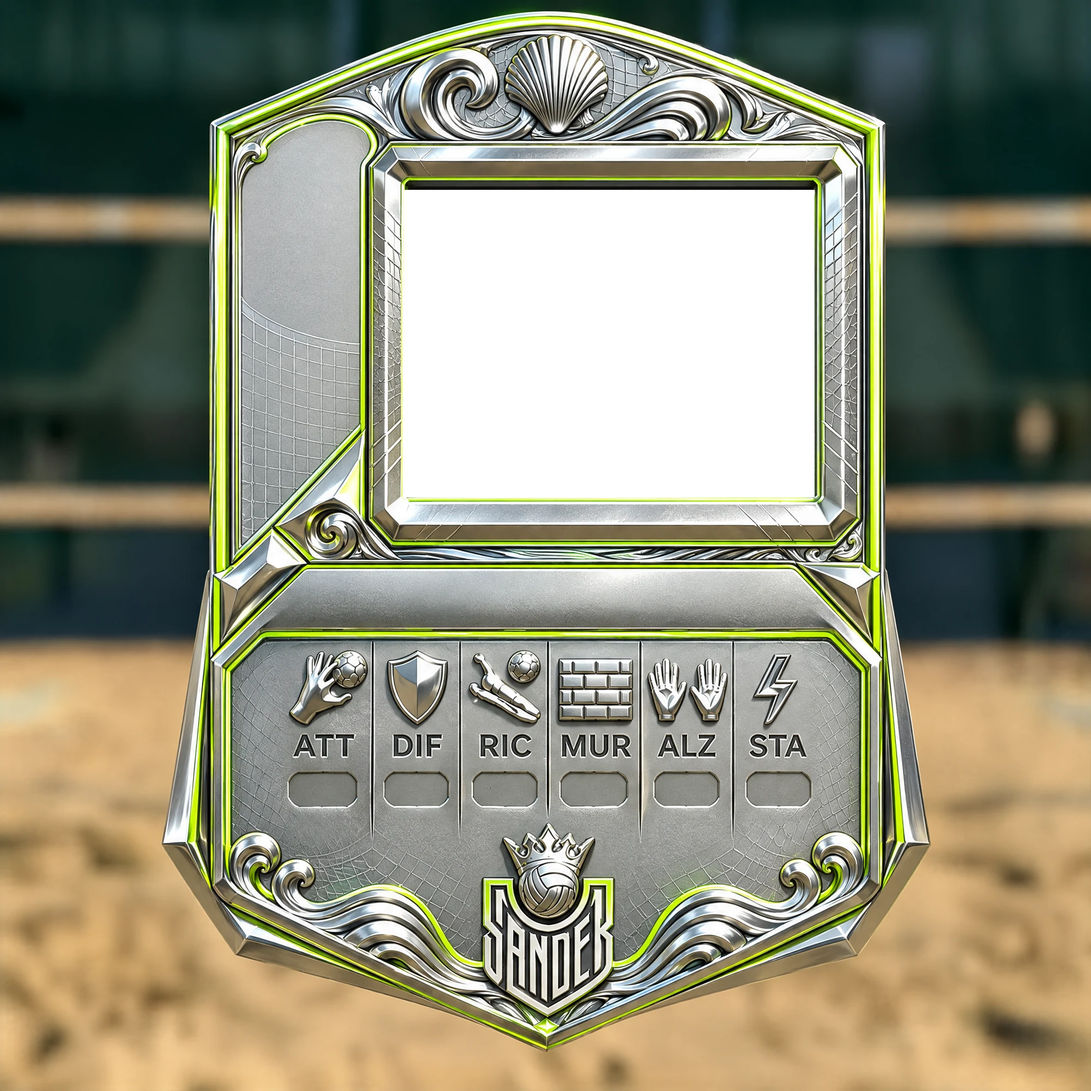
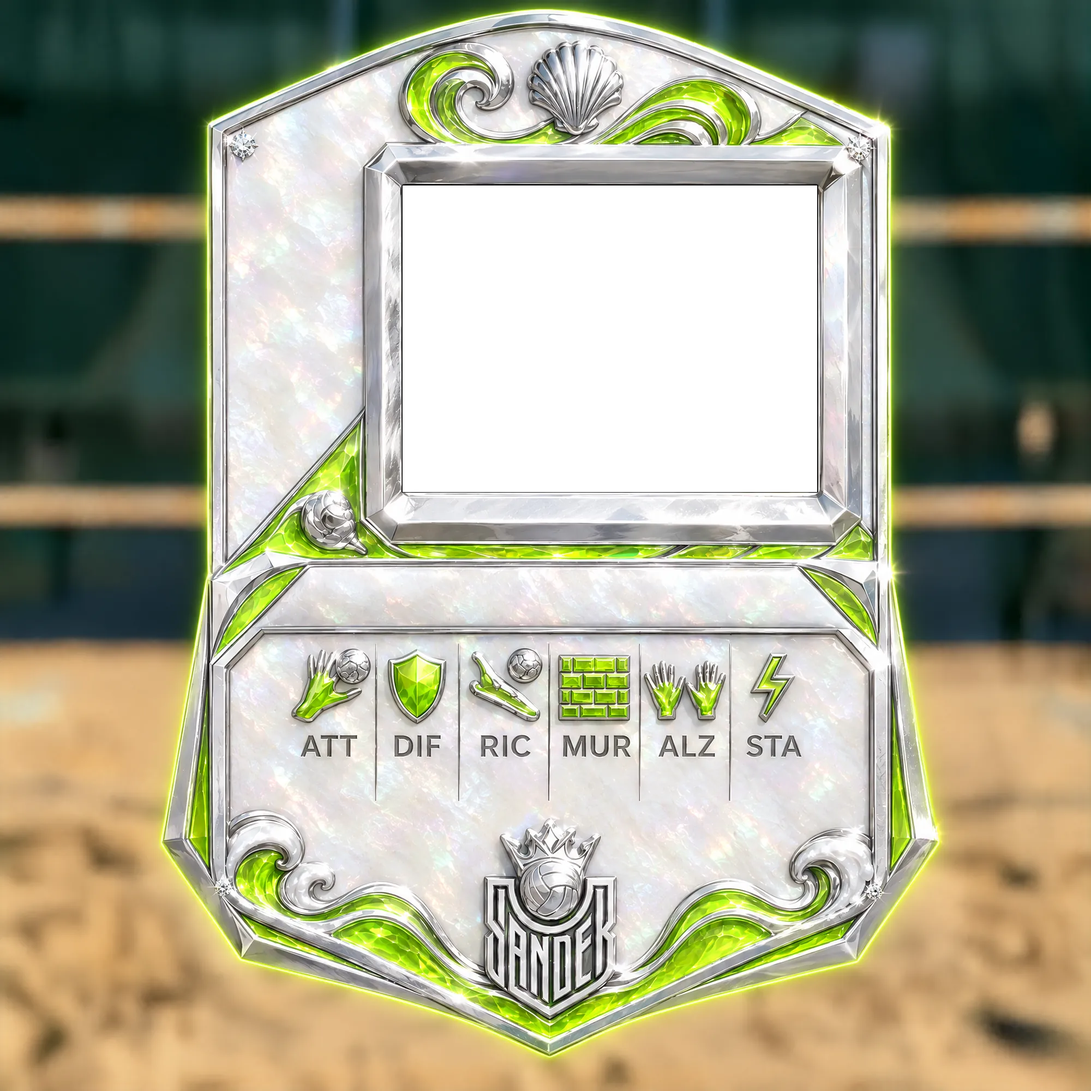
feat: Riviera-style player cards for every tier
Pearl enamel, sea-glass inlays and a metal per tier (bronze, rose-copper,
silver, platinum, gold, 24k gold); premium tiers get lime inlays and gems.
Dark engraved text on the pearl, stats centred under their labels and
capped at 99.

Claude-Session: https://claude.ai/code/session_01TEV76HmZvLKzfQrcHoWNSv

diff --git a/src/components/player/SanderCardFut.tsx b/src/components/player/SanderCardFut.tsx
@@ -34,17 +34,17 @@ interface SanderCardFutProps {
 /*  Constants                                                                  */
 /* ──────────────────────────────────────────────────────────────────────────── */
 
-const SHADOW = "0.5px 0.5px 0px rgba(255,255,255,0.1), -0.5px -0.5px 0px rgba(0,0,0,0.6)"
+/** Dark ink on the pearl enamel, with a light lip under it: reads as engraved. */
+const SHADOW = "0 1px 0 rgba(255,255,255,0.55)"
 const FONT = "'Chakra Petch', sans-serif"
 
 /* ──────────────────────────────────────────────────────────────────────────── */
-/*  Rating → text color (dark engraved metallic per tier)                      */
+/*  Rating → text color (dark ink on the pearl enamel, per tier)               */
 /* ──────────────────────────────────────────────────────────────────────────── */
 
 function getTextColor(glicko2: number): string {
-  if (glicko2 >= 2000) return "#5e3a00"  // Gold tiers — deep burnt gold/brass
-  if (glicko2 >= 1500) return "#2d2d2d"  // Silver tiers — dark gunmetal
-  return "#4a2c1d"                        // Bronze tiers — dark burned bronze
+  if (glicko2 >= 1500) return "#1c3439"  // Silver and gold tiers — deep sea teal
+  return "#3d2614"                        // Bronze tiers — dark burned bronze
 }
 
 /* ──────────────────────────────────────────────────────────────────────────── */
@@ -70,22 +70,19 @@ function FlagIcon({ code }: { code: string }) {
 }
 
 /* ──────────────────────────────────────────────────────────────────────────── */
-/*  Stat positioning: each number centred in its recessed slot on the frame.   */
-/*  Slot centres measured on the 2000×2000 frames (x) and the slot row (y).    */
+/*  Stat positioning: each number centred under its label on the frame.        */
+/*  Column centres measured on the 2000×2000 frames (x) and the number row (y).*/
 /* ──────────────────────────────────────────────────────────────────────────── */
 
 const STAT_POSITIONS: { key: keyof PlayerCardData["stats"]; left: string }[] = [
-  { key: "att", left: "29.4%" },
+  { key: "att", left: "30.2%" },
   { key: "dif", left: "38.1%" },
   { key: "ric", left: "46.2%" },
-  { key: "mur", left: "54.5%" },
-  { key: "alz", left: "62.9%" },
-  { key: "sta", left: "71.2%" },
+  { key: "mur", left: "54.6%" },
+  { key: "alz", left: "62.8%" },
+  { key: "sta", left: "70.9%" },
 ]
-const STAT_ROW = "72.3%"
-/** Numbers sit in dark recessed slots: light, with a shadow to read on any metal. */
-const STAT_COLOR = "#f6f4ee"
-const STAT_SHADOW = "0 1px 2px rgba(0,0,0,0.85)"
+const STAT_ROW = "72%"
 
 /* ──────────────────────────────────────────────────────────────────────────── */
 /*  Component: 3-layer sandwich (square 2000×2000 assets)                      */
@@ -226,7 +223,7 @@ export function SanderCardFut({ playerData, className, frameLoading }: SanderCar
           </span>
         </div>
 
-        {/* Stats — centred in the recessed slots */}
+        {/* Stats — centred under their labels */}
         {STAT_POSITIONS.map(({ key, left }) => (
           <span
             key={key}
@@ -238,8 +235,8 @@ export function SanderCardFut({ playerData, className, frameLoading }: SanderCar
               zIndex: 20,
               fontFamily: FONT,
               letterSpacing: "0.03em",
-              color: STAT_COLOR,
-              textShadow: STAT_SHADOW,
+              color: textColor,
+              textShadow: SHADOW,
             }}
           >
             {playerData.stats[key]}
@@ -254,8 +251,9 @@ export function SanderCardFut({ playerData, className, frameLoading }: SanderCar
 /*  Helper: Prisma Player → PlayerCardData                                     */
 /* ──────────────────────────────────────────────────────────────────────────── */
 
+/** 0–99 like FUT: a high rating plus a strong skill would otherwise read 140. */
 function statValue(pct: number, glicko: number) {
-  return Math.round(glicko / 40 + pct)
+  return Math.min(99, Math.round(glicko / 40 + pct))
 }
 
 export interface PrismaPlayerLike {
